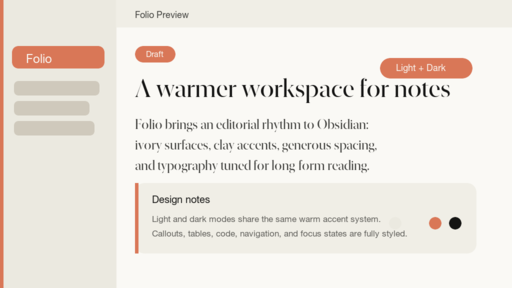
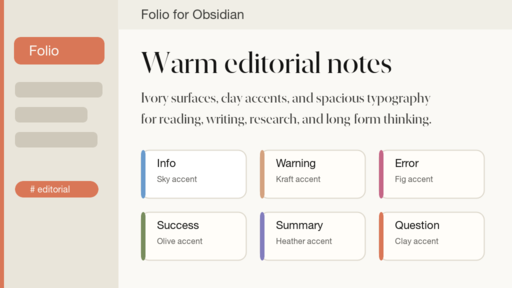
Improve theme listing presentation

diff --git a/README.md b/README.md
@@ -8,8 +8,9 @@ Folio is a warm, editorial Obsidian theme for reading, writing, and research. It
 
 - Warm light and dark modes with a shared ivory, slate, charcoal, and clay color system
 - Serif-forward reading layout with CJK-aware font fallbacks
-- Carefully styled navigation, tabs, search, command palette, modals, menus, and settings surfaces
-- Full Markdown coverage for headings, tables, callouts, blockquotes, links, tags, checkboxes, embeds, code, and Canvas nodes
+- Multi-color callouts for common note states, including info, warning, error, success, question, quote, summary, and example
+- Carefully styled navigation, tabs, search, command palette, modals, menus, sliders, and settings surfaces
+- Full Markdown coverage for headings, tables, callouts, blockquotes, links, tags, checkboxes, embeds, code, properties, and Canvas nodes
 - Accessible focus states, reduced-motion handling, high-contrast support, and print-friendly output
 
 ## Design
@@ -28,6 +29,20 @@ Typography is tuned for mixed English and Chinese notes. The public theme uses o
 - **Reading and headings:** Lora, Georgia, and CJK serif fallbacks
 - **Interface:** Instrument Sans, Inter, and system UI fallbacks
 - **Code:** JetBrains Mono and system monospace fallbacks
+
+## Feature Coverage
+
+Folio styles the parts of Obsidian that are most visible during daily writing:
+
+- **Callouts:** distinct accent palettes for `info`, `warning`, `error` / `danger`, `success` / `tip`, `question`, `quote`, `abstract` / `summary`, and `example`
+- **Tables:** bordered editorial tables with tuned header spacing, row hover states, and transparent inline code inside table cells
+- **Dataview:** compact Dataview table spacing using scoped table variables for better density
+- **Code:** warm syntax colors for keywords, strings, numbers, comments, functions, types, properties, operators, and variables
+- **Navigation:** active file and outline indicators with clay accent strips for stronger orientation
+- **Metadata:** transparent property fields with subtle hover and focus states
+- **Canvas and embeds:** rounded nodes, quiet borders, and soft elevation
+- **Tags and checkboxes:** clay pill tags and filled task checkboxes
+- **Accessibility:** visible keyboard focus, high-contrast mode support, reduced-motion support, and print/PDF-friendly styling
 
 ## Installation
 
